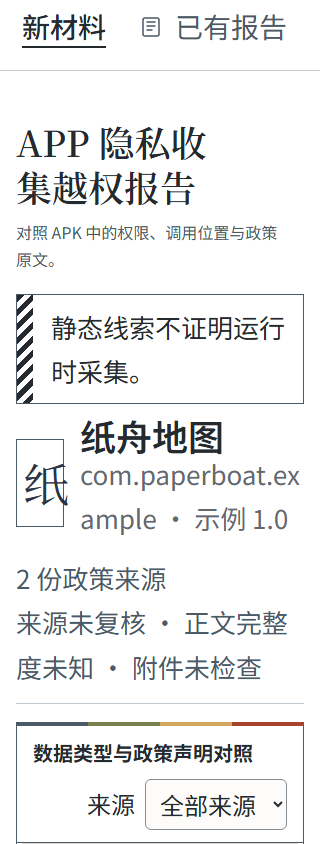
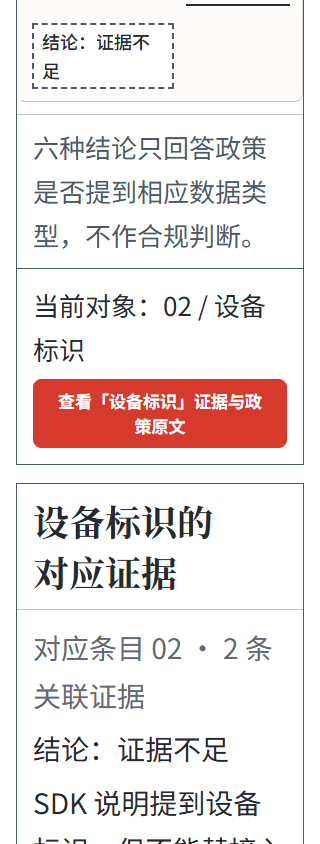
fix(web): 修复视觉审阅发现的选中边框、200% 层级与取证缺口

diff --git a/apps/web/src/style.css b/apps/web/src/style.css
@@ -60,8 +60,9 @@ pre { font-family: var(--font-code); font-size: 0.75rem; white-space: pre-wrap; 
 .provenance summary { cursor: pointer; padding: 10px 0; }
 .provenance article { border-left: 2px solid var(--border); padding: 8px 18px; margin: 10px 0; }
 .hash { overflow-wrap: anywhere; font-family: var(--font-code); }
-.state { padding: 50px 20px; text-align: center; background: var(--surface); margin: 25px 0; border-radius: 10px; }
-.error { color: var(--error); }
+.state { padding: 50px 20px; text-align: center; background: var(--pt-paper); margin: 25px 0; border: 1px solid var(--pt-rule); border-radius: 0; }
+/* Failure reads through copy and an edge style, never a second vivid colour. */
+.state.error { color: var(--pt-ink); border: 3px double var(--pt-structure); }
 footer { margin-top: 35px; font-size: 0.75rem; color: var(--muted); text-align: center; }
 @media (max-width: 760px) {
   main { padding: 24px 16px; }
@@ -132,7 +133,9 @@ mark { background: var(--notice); color: var(--ink); }
   gap: 8px; width: 100%; min-height: 44px; padding: 10px 8px;
   border: 0; border-left: 3px solid transparent; border-radius: 0;
   background: transparent; color: var(--pt-muted); text-align: left;
-  font-size: 0.8125rem; line-height: 1.5;
+  /* px, not rem: the nav is chrome and must stay below the px type scale when
+     the reader raises the root font size to 200%. */
+  font-size: 13px; line-height: 1.5;
 }
 .workbench .flow-nav button[aria-current] { border-left-color: var(--pt-structure); color: var(--pt-ink); font-weight: 700; }
 /* CJK labels wrap on narrow screens; balance the lines so a lone trailing
@@ -146,6 +149,7 @@ mark { background: var(--notice); color: var(--ink); }
 }
 .workbench .flow-nav button[aria-current] .flow-step-number { background: var(--pt-structure); border-color: var(--pt-structure); color: var(--pt-paper); }
 .workbench .sidebar-actions { display: grid; gap: 4px; padding-top: 16px; border-top: 1px solid var(--pt-rule); }
+.workbench .sidebar-actions .ui-button, .workbench .nav-item { font-size: 13px; }
 .workbench .sidebar-actions .ui-button { justify-content: flex-start; padding-left: 9px; text-align: left; }
 .workbench .nav-item { border-left: 3px solid transparent; padding-left: 9px; border-radius: 0; color: var(--pt-muted); }
 .workbench .nav-item.active { background: transparent; border-left-color: var(--pt-structure); color: var(--pt-ink); font-weight: 700; }
@@ -224,11 +228,18 @@ mark { background: var(--notice); color: var(--ink); }
   background: repeating-linear-gradient(135deg, var(--pt-ink) 0 5px, var(--pt-paper) 5px 10px);
 }
 .workbench .page .report-summary { display: flex; flex-wrap: wrap; align-items: flex-start; justify-content: space-between; gap: 12px 24px; margin: 0 0 18px; padding-bottom: 14px; border-bottom: 1px solid var(--pt-rule); }
-.workbench .page .sample-monogram { width: auto; height: auto; min-width: 48px; min-height: 48px; padding: 6px; background: var(--pt-paper); border: 1px solid var(--pt-structure); border-radius: 0; }
+.workbench .page .sample-monogram { width: auto; height: auto; min-width: 48px; min-height: 48px; padding: 6px; background: var(--pt-paper); border: 1px solid var(--pt-structure); border-radius: 0; aspect-ratio: 1; flex: 0 0 auto; }
+/* Long package names and the version line wrap inside the identity block; the
+   monogram keeps its square box instead of stretching with the text column. */
+.workbench .page .report-identity { min-width: 0; }
+.workbench .page .report-identity > div { min-width: 0; }
+.workbench .page .report-identity p { overflow-wrap: anywhere; }
 .workbench .page .report-source-state { text-align: right; }
 .workbench .page .report-source-state p { margin: 0; font-size: 0.8125rem; line-height: 1.7; color: var(--pt-muted); }
 .workbench .page .report-columns { display: grid; grid-template-columns: minmax(0, 1.15fr) minmax(0, 1fr); gap: 18px; align-items: start; }
 .workbench .page .report-columns[data-layout="stacked"] { grid-template-columns: minmax(0, 1fr); }
+/* Both report columns are peer panels: one section-title size. */
+.workbench .page .report-evidence .panel-heading h2 { font-size: var(--pt-type-panel); }
 .workbench .page .report-conclusions { background: var(--pt-paper); border: 1px solid var(--pt-structure); }
 .workbench .page .report-conclusions .panel-heading { margin: 0; padding: 12px 16px; border-bottom: 1px solid var(--pt-structure); }
 .workbench .page .report-conclusions .comparison-table { min-width: 0; width: 100%; border-collapse: collapse; font-size: 0.875rem; }
@@ -239,8 +250,10 @@ mark { background: var(--notice); color: var(--ink); }
 }
 .workbench .page .report-conclusions .comparison-table tbody td { padding: 14px 16px; border: 0; vertical-align: top; background: transparent; }
 .workbench .page .report-conclusions .comparison-table tbody tr + tr td { border-top: 1px solid var(--pt-rule); }
-.workbench .page .report-conclusions .finding-type { border-left: 3px solid transparent; }
-.workbench .page .report-conclusions tr.is-selected .finding-type { border-left-color: var(--pt-structure); }
+/* The selected row keeps a reserved 3px edge: the border width is set on the
+   cell itself so the generic `tbody td { border: 0 }` cannot erase it. */
+.workbench .page .report-conclusions .comparison-table tbody td.finding-type { border-left: 3px solid transparent; }
+.workbench .page .report-conclusions tr.is-selected td.finding-type { border-left-color: var(--pt-structure); }
 .workbench .page .report-conclusions .finding-evidence { width: 1%; text-align: right; white-space: nowrap; }
 .workbench .page .finding-number { display: inline-block; margin: 0 8px 4px 0; font-family: var(--pt-font-code); font-size: 0.6875rem; color: var(--pt-muted); }
 .workbench .page .finding-type h3 { display: inline; font-family: var(--pt-font-body); font-size: var(--pt-type-finding); line-height: 1.35; font-weight: 700; margin: 0; }
@@ -302,7 +315,7 @@ mark { background: var(--notice); color: var(--ink); }
   .workbench .workspace-layout { grid-template-columns: minmax(0, 1fr); }
   .workbench .workspace-sidebar { border-right: 0; border-bottom: 1px solid var(--pt-rule); padding: 8px 12px 10px; gap: 8px; }
   .workbench .flow-nav ol { grid-template-columns: repeat(4, minmax(0, 1fr)); gap: 4px; }
-  .workbench .flow-nav button { grid-template-columns: minmax(0, 1fr); gap: 2px; padding: 6px 4px; border-left: 0; border-bottom: 2px solid transparent; font-size: 0.75rem; }
+  .workbench .flow-nav button { grid-template-columns: minmax(0, 1fr); gap: 2px; padding: 6px 4px; border-left: 0; border-bottom: 2px solid transparent; font-size: 12px; }
   .workbench .flow-nav button[aria-current] { border-left-color: transparent; border-bottom-color: var(--pt-structure); }
   .workbench .flow-step-number { width: auto; height: auto; border: 0; font-size: 0.625rem; color: var(--pt-muted); }
   .workbench .flow-nav button[aria-current] .flow-step-number { background: transparent; color: var(--pt-ink); }
@@ -334,11 +347,11 @@ mark { background: var(--notice); color: var(--ink); }
   .workbench .page .report-conclusions .comparison-table,
   .workbench .page .report-conclusions .comparison-table tbody { display: block; min-width: 0; }
   .workbench .page .report-conclusions .comparison-table thead { position: absolute; width: 1px; height: 1px; margin: -1px; padding: 0; overflow: hidden; clip-path: inset(50%); }
-  .workbench .page .report-conclusions .comparison-table tbody tr { display: grid; grid-template-columns: minmax(0, 1fr) auto; gap: 4px 12px; padding: 12px; border-bottom: 1px solid var(--pt-rule); }
+  .workbench .page .report-conclusions .comparison-table tbody tr { display: grid; grid-template-columns: minmax(0, 1fr) auto; gap: 4px 12px; padding: 12px; border-bottom: 1px solid var(--pt-rule); border-left: 3px solid transparent; }
   .workbench .page .report-conclusions .comparison-table tbody tr + tr td { border-top: 0; }
   .workbench .page .report-conclusions .comparison-table tbody td { display: block; padding: 0; border: 0; }
-  .workbench .page .report-conclusions .finding-type { border-left: 0; }
-  .workbench .page .report-conclusions tr.is-selected .finding-type { border-left: 0; }
+  .workbench .page .report-conclusions .comparison-table tbody td.finding-type { border-left: 0; }
+  .workbench .page .report-conclusions tr.is-selected { border-left-color: var(--pt-structure); }
   .workbench .page .report-conclusions .finding-evidence { align-self: center; }
   .workbench .page .report-evidence .evidence-card { padding: 12px; }
 }

diff --git a/apps/web/src/pages/ExampleReport.vue b/apps/web/src/pages/ExampleReport.vue
@@ -64,7 +64,7 @@ function returnToTrigger() {
     <p class="report-boundary">{{ frontendCopy.facts.staticRuntime }}</p>
     <div class="report-summary">
       <div class="report-identity"><div class="sample-monogram" aria-hidden="true">纸</div><div><h2>纸舟地图</h2><p>com.paperboat.example · 示例 1.0</p></div></div>
-      <div class="report-source-state"><p class="field-help">{{ state.sources.length }} 份政策来源</p><p>{{ materialState }}</p></div>
+      <div class="report-source-state"><p>{{ materialState }}</p><p class="field-help">{{ state.sources.length }} 份政策来源</p></div>
     </div>
     <div class="report-columns" :data-layout="inlineEvidence ? 'stacked' : 'columns'">
       <section class="report-conclusions priority-panel" aria-labelledby="report-conclusions-title">

diff --git a/docs/design/concept-foundation/verification.md b/docs/design/concept-foundation/verification.md
@@ -54,7 +54,7 @@
 | --- | --- | --- | --- |
 | `npm run test --workspace @privacytrace/web` | PASS | 132/132（126 既有 + 6 copy-contract） | 终端输出 `tests 132 / pass 132 / fail 0` |
 | `PRIVACYTRACE_FRONTEND_URL=http://127.0.0.1:5191 npm run acceptance:frontend` | PASS（exit 0） | frontend-flow：brand 103 项、reports 15 项移动断言；policy-assist：10 项真实 HTTP/UI | `tmp/issue44-ui/verification.json`、`tmp/issue72-policy-assist/verification.json` |
-| `node scripts/verify-copy-contract.cjs`（无 env，自启 dev server） | PASS | 39 checks / 15 条截图记录 | [copy-contract.json](acceptance/issue165/copy-contract.json)、[截图目录](acceptance/issue165/screenshots/) |
+| `node scripts/verify-copy-contract.cjs`（无 env，自启 dev server） | PASS | 42 checks / 25 张截图 | [copy-contract.json](acceptance/issue165/copy-contract.json)、[截图目录](acceptance/issue165/screenshots/) |
 | `PRIVACYTRACE_FRONTEND_URL=http://127.0.0.1:5191 node scripts/verify-issue143-hierarchy.cjs` | PASS | 11 checks | `tmp/issue143-hierarchy/verification.json` |
 | `PRIVACYTRACE_FRONTEND_URL=http://127.0.0.1:5191 node scripts/verify-issue146-motion.cjs` | PASS | 20 checks | `tmp/issue146-motion/verification.json` |
 | `PRIVACYTRACE_FRONTEND_URL=http://127.0.0.1:5191 node scripts/verify-issue145-a11y.cjs` | PASS | 14 checks | `tmp/issue145-a11y/verification.json` |
@@ -89,11 +89,13 @@
 
 ### 截图
 
-[`docs/acceptance/issue165/screenshots/`](acceptance/issue165/screenshots/) 目录内共 17 张：本节 copy-contract 产出 14 个文件（`copy-contract.json` 记录 15 条，其中 `report-1440.png` 出现两次：一次视口图、一次整页图），另有 3 张 #169 品牌截图（见 #169 节）：
+[`docs/acceptance/issue165/screenshots/`](acceptance/issue165/screenshots/) 目录内共 28 张：copy-contract 产出 25 张（42 checks），另有 3 张 #169 品牌截图（见 #169 节）。独立视觉审阅指出旧截图没有报告首屏与移动主操作帧，已重拍：
 
 - [import-1440](acceptance/issue165/screenshots/import-1440.png)、[candidates-1440](acceptance/issue165/screenshots/candidates-1440.png)、[progress-1440](acceptance/issue165/screenshots/progress-1440.png)
-- [report-1440](acceptance/issue165/screenshots/report-1440.png)（整页）、[report-1280](acceptance/issue165/screenshots/report-1280.png)、[report-768](acceptance/issue165/screenshots/report-768.png)、[report-390](acceptance/issue165/screenshots/report-390.png)、[report-320](acceptance/issue165/screenshots/report-320.png)
-- [report-390-200](acceptance/issue165/screenshots/report-390-200.png)、[report-320-200](acceptance/issue165/screenshots/report-320-200.png)（200% 根文字）
+- 报告首屏（scrollTop=0）：[report-1440-top](acceptance/issue165/screenshots/report-1440-top.png)、[report-1280-top](acceptance/issue165/screenshots/report-1280-top.png)、[report-768-top](acceptance/issue165/screenshots/report-768-top.png)、[report-390-top](acceptance/issue165/screenshots/report-390-top.png)、[report-320-top](acceptance/issue165/screenshots/report-320-top.png)
+- 报告交互帧（选中第二行 + 证据区）：[report-1440](acceptance/issue165/screenshots/report-1440.png)、[report-1280](acceptance/issue165/screenshots/report-1280.png)、[report-768](acceptance/issue165/screenshots/report-768.png)、[report-390](acceptance/issue165/screenshots/report-390.png)、[report-320](acceptance/issue165/screenshots/report-320.png)
+- 移动主操作帧：[report-390-action](acceptance/issue165/screenshots/report-390-action.png)、[report-320-action](acceptance/issue165/screenshots/report-320-action.png)
+- 200% 根文字首屏：[report-390-200-top](acceptance/issue165/screenshots/report-390-200-top.png)、[report-320-200-top](acceptance/issue165/screenshots/report-320-200-top.png)；200% 主操作帧：[report-390-200](acceptance/issue165/screenshots/report-390-200.png)、[report-320-200](acceptance/issue165/screenshots/report-320-200.png)
 - [settings-1440](acceptance/issue165/screenshots/settings-1440.png)、[settings-390](acceptance/issue165/screenshots/settings-390.png)
 - [archive-1440](acceptance/issue165/screenshots/archive-1440.png)、[archive-390](acceptance/issue165/screenshots/archive-390.png)
 
@@ -104,6 +106,17 @@
 - 实现缺陷（已修复并复跑）：`label.text-upload` 在 390px 仍是 44px，Lead 在 `style.css` 的 ≤896px/coarse 媒体块补 48px（`24ee58b`），并给 Reka 传送到 `<body>` 的设置弹窗单独补 48px（`8d63e49`）；`MobileApp.vue` 进度卡硬编码“报告已生成”，改为 `frontendCopy.stages.SUCCEEDED`（`a0ab4db`）。
 - 验收脚本问题（非产品缺陷）：`verify-browser-acceptance` 首次并行运行因端口/时序竞争失败，串行重跑 exit 0，失败日志保留在 `tmp/browser-acceptance.log`；`verify-frontend-preview` 首次运行因 `dev:stop` 与所有权控制面收尾竞争留下孤儿 daemon，人工确认后终止并清理 `tmp/frontend-preview/state.json`，重跑通过；`verify-frontend-round2` 的输出改到 `tmp/issue144-round2/evidence/`，未替换 `docs/acceptance/issue144/round2/` 历史截图。
 - 守卫断言按合同同步：9 个旧浏览器守卫与单测 mock 因四步名/报告名/表头/状态行/证据区结构变化而失效，已按用户采纳的新合同同步，未删除测试面、未放宽行为断言；分类明细见 `20261022.md` §3。品牌 `<img>` 的 `naturalWidth` 口径修正属于守卫问题，不改变产品断言强度。
+
+### 独立视觉审阅与修复
+
+独立视觉审阅（只读，逐张读取截图并做像素核对）确认 176px 侧栏、1.15:1 双栏、字号层级、四色带、唯一红主操作、状态语义与品牌图形达标，同时指出四类问题；已修复并复跑：
+
+1. 取证方式：旧截图在“选中条目→滚动到证据区”之后拍摄，报告页没有首屏。`verify-copy-contract.cjs` 新增 `resetScroll`，五视口补拍 scrollTop=0 首屏；移动端补拍“当前对象 + 全宽 56px 主操作”帧；200% 补首屏与主操作帧。断言从 `isVisible()` 改为实际滚动可达 + 高度/宽度校验，并新增 1280×720 首条证据入口在首屏内的断言。
+2. 选中态边框缺失：`tbody td { border: 0 }` 特异性压过 `.finding-type` 的 3px 左边框。改为在 `td.finding-type` 上声明边框宽度，窄屏卡片把 3px 边移到 `tr` 上；1440/768/390 截图可见“文字 + 边框”。
+3. 200% 层级倒置：导航/侧栏动作原用 rem，放大后 26px 反超 20px 区段标题。改为 13px/12px 固定 px；h1 36px > 区段 22/20px > 导航 12px。
+4. 身份块与状态样式：`.sample-monogram` 加 `aspect-ratio: 1` 与 `flex: 0 0 auto`，长包名允许在块内换行；来源状态行移到数量之前；两栏面板标题统一 22px；存档错误态改为中性文字 + 双线边框（不再出现第二处红）；桌面主操作维持 45px（fine pointer），≤896/coarse 为 56px，与 `pioneer-design.json` 的 `actionMinHeight`/`actionMinHeightNarrow` 一致。
+
+审阅建议但未改的项：示例报告使用单行来源计数（真实报告保留三格计数）；进度页面板标题“示例材料”属于材料身份；候选页“待检查/已检查”是候选检查状态，与报告“条目复核”是不同语义；30px 品牌槽位保持不放大以不改变顶栏度量。上述差异记录在此，不作为未完成项。
 
 ### NOT_RUN
 

diff --git a/docs/acceptance/issue165/20261022.md b/docs/acceptance/issue165/20261022.md
@@ -107,10 +107,13 @@
 `docs/acceptance/issue165/screenshots/`（15 张，全部为 Chromium 合成示例）：
 
 - `import-1440.png`、`candidates-1440.png`、`progress-1440.png`
-- `report-1440.png`（整页）、`report-1280.png`、`report-768.png`、`report-390.png`、`report-320.png`
-- `report-390-200.png`、`report-320-200.png`（200% 根文字）
+- 报告首屏（scrollTop=0）：`report-1440-top.png`、`report-1280-top.png`、`report-768-top.png`、`report-390-top.png`、`report-320-top.png`
+- 报告交互帧：`report-1440.png`、`report-1280.png`、`report-768.png`、`report-390.png`、`report-320.png`
+- 移动主操作帧：`report-390-action.png`、`report-320-action.png`
+- 200% 根文字：`report-390-200-top.png`、`report-320-200-top.png`、`report-390-200.png`、`report-320-200.png`
 - `settings-1440.png`、`settings-390.png`
 - `archive-1440.png`、`archive-390.png`
+- 品牌：`brand-topbar-1440.png`、`brand-mobile-390.png`、`brand-offline-1440.png`
 
 其他脚本截图位置：`tmp/issue44-ui/screenshots/`、`tmp/concept-foundation/`、`tmp/issue144-round2/evidence/`、`tmp/mobile-reading/`、`tmp/issue72-native/`、`tmp/issue143-hierarchy/`、`tmp/issue145-a11y/`、`tmp/issue146-motion/`、`tmp/issue72-policy-assist/`。`docs/acceptance/issue144/round2/` 为历史证据，本轮未替换。
 
@@ -120,9 +123,22 @@
 - Android WebView / 真机 / 真实软键盘 IME / 安全区（display cutout）/ 系统字体缩放 / TalkBack：NOT_RUN；`verify-mobile-flow`、`verify-mobile-reading`、`verify-frontend-round2` 仅 Chromium 模拟。
 - 真实离线导出包（`?presentation=offline` 由导出包写入 meta）：NOT_RUN；离线顶栏断言通过 Playwright 注入 meta 的方式验证。
 - A11y 真实读屏（NVDA/VoiceOver）：NOT_RUN。
-- 完整 `bash scripts/check.sh`：本轮未执行（组件命令已分别通过；新增 `verify-brand-assets.cjs` 已由 `check.sh` 接线）。
+- 完整 `bash scripts/check.sh`：Lead 在最终工作区执行通过（`PrivacyTrace checks passed.`，exit 0；含 API pytest、tests/e2e、ruff、schema、品牌校验、前端 132 测试与构建）。
 - 合并 / 发布 / 部署：未执行，也不在本记录声明范围内。
 
-## 8. 结论
+## 8. 独立视觉审阅与修复（2026-10-22 补记）
 
-本次 #165/#167/#169 前端验收在产品实现（含 Lead 的两处修复）之上全部可执行项通过；未通过/未执行项已按上面第 7 节登记，没有用浏览器合成材料替代真机或真实扫描证据。验收过程中发现的旧断言失效均已区分“合同变更（同步）”与“实现缺陷（修复后复跑）”，没有删除测试面或用放宽断言掩盖。
+独立视觉审阅（只读，逐张截图 + 像素核对）确认 176px 侧栏、1.15:1 双栏、字号层级、四色带、唯一红主操作、状态语义与品牌图形达标；指出并已修复：
+
+- 报告首屏缺帧：`verify-copy-contract.cjs` 增加 `resetScroll`，五视口重拍 `report-<w>-top.png`；移动端补 `report-<w>-action.png`；200% 补 `-top` 与主操作帧；断言改为滚动可达 + 高度/宽度校验，新增 1280×720 首条证据入口在首屏内的断言。
+- 选中态边框被 `tbody td { border: 0 }` 压掉：改到 `td.finding-type` 声明宽度，窄屏卡片把 3px 边移到 `tr`；1440/768/390 截图可见“文字 + 边框”。
+- 200% 导航字号反超区段标题：导航/侧栏动作改为 13px/12px 固定 px，h1 36px > 区段 22/20px > 导航 12px。
+- 身份块 200% 变形、长包名断行、来源状态在数量之后、两栏标题字号不一致、存档错误态第二处红：均已修（monogram `aspect-ratio:1`、状态行前置、两栏标题 22px、错误态中性双线）。
+- 桌面主操作 45px（fine pointer）/ ≤896 与 coarse 56px：与 `pioneer-design.json` 契约一致，README 的“至少 56px”按触控场景解释。
+- 审阅建议但保留的差异：示例报告单行来源计数（真实报告三格计数）、进度页“示例材料”为材料身份、候选“待检查”与报告“条目复核”语义不同、30px 品牌槽位不放大。
+
+截图：copy-contract 42 checks / 25 张 + 3 张品牌图，见 §6 与 `docs/design/concept-foundation/verification.md`。
+
+## 9. 结论
+
+本次 #165/#167/#169 前端验收在产品实现（含 Lead 的修复）之上全部可执行项通过；未通过/未执行项已按第 7 节登记，没有用浏览器合成材料替代真机或真实扫描证据。验收过程中发现的旧断言失效均已区分“合同变更（同步）”与“实现缺陷（修复后复跑）”，没有删除测试面或用放宽断言掩盖。
